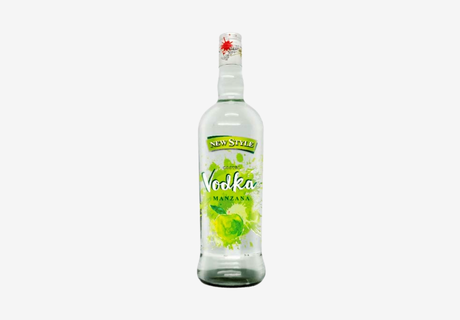
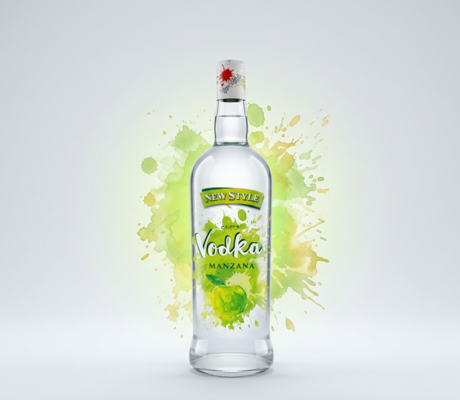
cambios de apariencia en carrito y funciones de mapa mejoras

diff --git a/index.html b/index.html
@@ -10,8 +10,8 @@
     <link href="https://fonts.googleapis.com/css2?family=Poppins:wght@300;400;500&family=Roboto+Mono:ital,wght@1,500&&display=swap" rel="stylesheet">
     <link rel="stylesheet" href="https://cdn.jsdelivr.net/npm/bootstrap-icons@1.13.1/font/bootstrap-icons.min.css">
     <title>sm-delivery-boostrap</title>
-    <script type="module" crossorigin src="/assets/index-BpKlGMg7.js"></script>
-    <link rel="stylesheet" crossorigin href="/assets/index-YV8shWrf.css">
+    <script type="module" crossorigin src="/assets/index-CzmakOgu.js"></script>
+    <link rel="stylesheet" crossorigin href="/assets/index-DphiD8V9.css">
   </head>
   <body>
     <div id="app"></div>